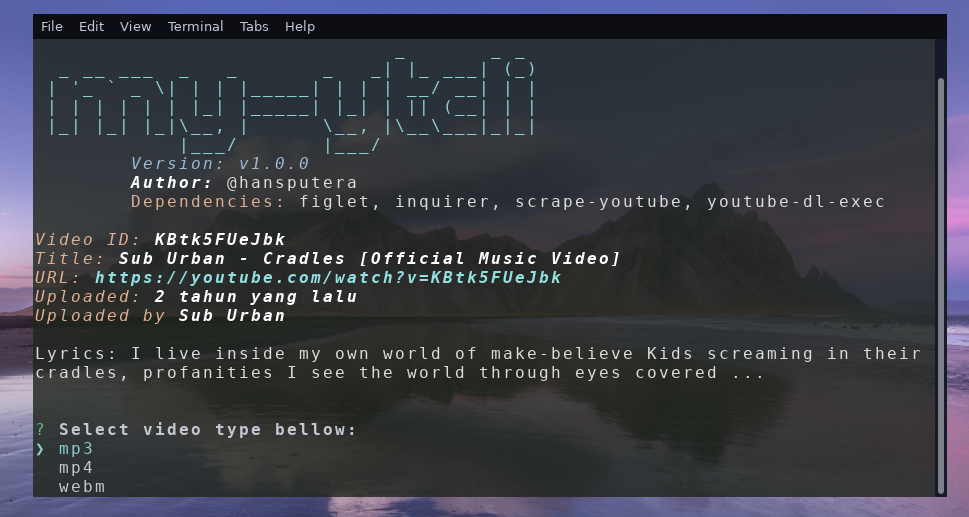
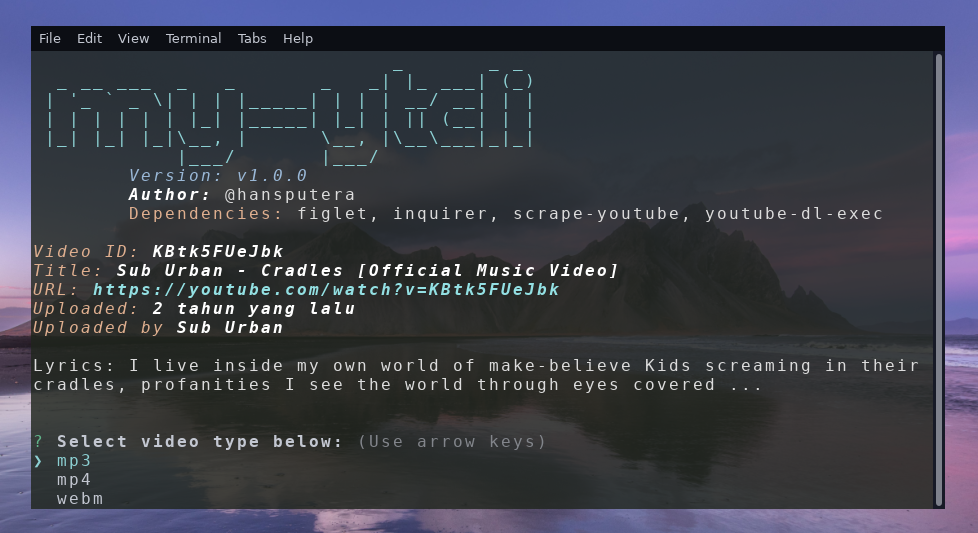
feeat: add stdout, stderr log

Changed region(s): [[0.0, 0.0, 1.0, 1.0], [0.4025, 0.3714, 0.4954, 0.4333], [0.5882, 0.7737, 0.6192, 0.8046]]

diff --git a/cli.js b/cli.js
@@ -153,15 +153,14 @@ export async function showVideoQuery(video) {
 
 	const answers = await inquirer.prompt([
 			{
-				type: 'list',
+				type: 'input',
 				name: 'type',
-				message: 'Select video type bellow:',
-				choices: ['mp3', 'mp4', 'webm'],
-				default: 'mp3'
+				message: 'Video type:',
+				default: 'mp4',
 			}
 	]);
 
-	ytdl.exec('https://youtube.com/watch?v=' + video.id, {
+	const s = ytdl.exec('https://youtube.com/watch?v=' + video.id, {
 		noWarnings: true,
 	    noCallHome: true,
 	    noCheckCertificate: true,
@@ -170,9 +169,16 @@ export async function showVideoQuery(video) {
 	    output: path.join(getPathData().__dirname, '_videos', video.title.replace(/\//g, '-') + '.' + answers.type),
 	});
 
+	s.stdout.on('data', (text) => {
+		console.log(chalk.white(text));
+	});
+	s.stderr.on('data', (text) => {
+		console.log(chalk.red.bold(text));
+	});
+
 	console.log(chalk.green.bold('Downloading ...'));
 	process.on('exit', () => {
-		console.log('done.');
+		console.log('exited.');
 	});
 }
 
